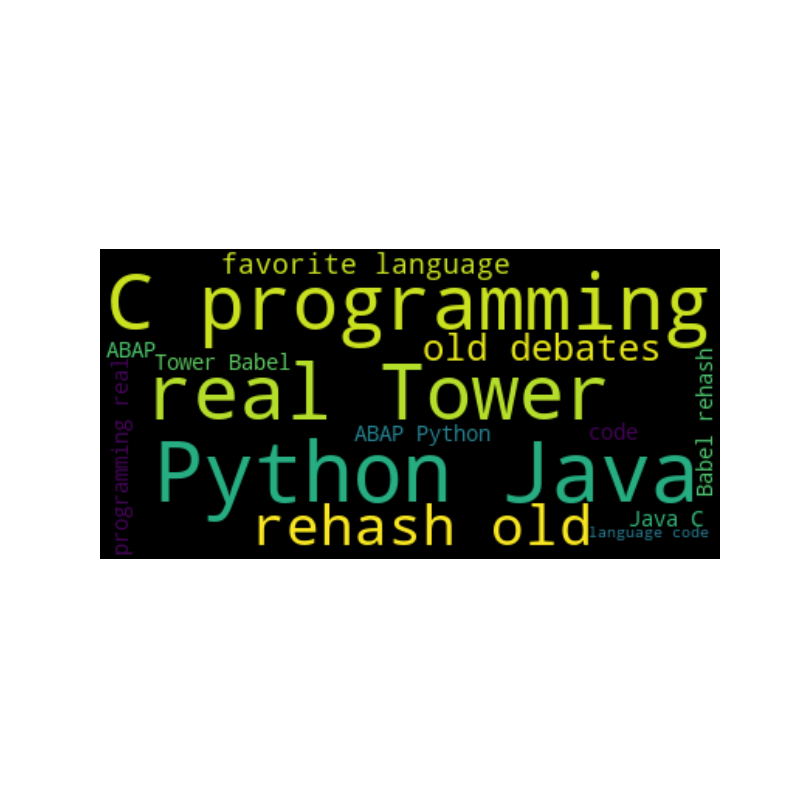
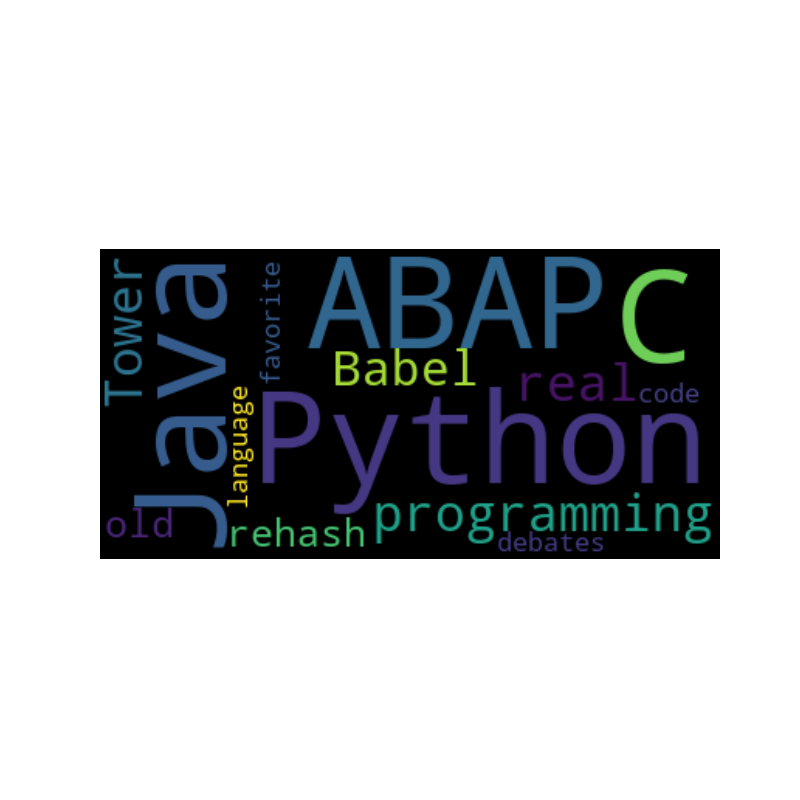
here comes the merge

Changed region(s): [[0.125, 0.3125, 0.9062, 0.6875]]

diff --git a/main.py b/main.py
@@ -26,17 +26,19 @@ def main():
                                         yaml_key="search_tweets_v2",
                                         env_overwrite=False)
 
-    query = gen_request_parameters("(favorite programming language) -is:retweet -has:media", granularity=False, results_per_call=100)
+    query = gen_request_parameters("(favorite programming language) -is:retweet lang:en", granularity=False, results_per_call=100)
     all_tweets = []
-    for i in range(10):
-        rs = ResultStream(request_parameters=query,
-                        max_results=100,
-                        max_pages=10,
-                        **search_args)
-        rsList = list(rs.stream())
-        all_tweets = all_tweets + rsList
-    print(all_tweets)
-
+    rs = ResultStream(request_parameters=query,
+                    max_results=100,
+                    max_pages=10,
+                    **search_args)
+    all_tweets = list(rs.stream())
+    query = gen_request_parameters("(worst programming language) -is:retweet lang:en", granularity=False, results_per_call=100)
+    rs = ResultStream(request_parameters=query,
+                    max_results=100,
+                    max_pages=10,
+                    **search_args)
+    all_tweets = all_tweets + list(rs.stream())
     tweets = {}
 
     languages = {}
@@ -63,17 +65,12 @@ def main():
     sia_scores = {}
     for key,value in languages.items():
         sia_scores[key] = sia.polarity_scores(value)
-<<<<<<< HEAD
     df = pd.DataFrame.from_dict(sia_scores)
     print("Creating polarity score csv...")
     df.to_csv("./polarity_scores.csv")
 
     vals = []
-=======
-    xValues = []
-    yValues = []
-    zValues = []
->>>>>>> 127a68abf1e175cc030ae2f068d1f69c332aa0d6
+    xticks = []
     for lang in languages.keys():
         if lang in sia_scores.keys():
             vals.append(sia_scores[lang]["compound"])
